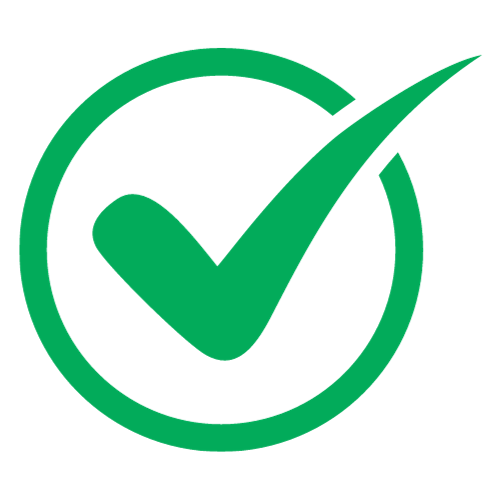
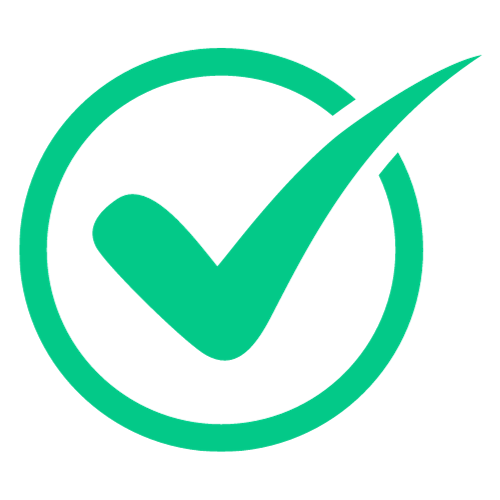
Reajust colors

Changed region(s): [[0.03, 0.09, 0.87, 0.93], [0.18, 0.09, 0.96, 0.72]]

diff --git a/todolist/style.css b/todolist/style.css
@@ -22,7 +22,7 @@ body
 .head-text h1
 {
     font-family: 'Paytone One', sans-serif;
-    font-size: 50px;
+    font-size: 35px;
     padding: 0;
 }
 
@@ -46,8 +46,8 @@ body
 
 .input-task button
 {
-    background-color: green;
-    border: 1px solid green;
+    background-color: #03C988;
+    border: 1px solid #03C988;
     padding: 15px;
     font-family: 'Kanit', sans-serif;
     width: 150px;
@@ -85,8 +85,8 @@ body
 
 .buttons .active
 {
-    background-color: green;
-    border: 1px solid green;
+    background-color: #03C988;
+    border: 1px solid #03C988;
 }
 
 .tasks-list
@@ -107,6 +107,16 @@ body
     margin: 0 5px;
 }
 
+.task input
+{
+    cursor: pointer;
+}
+
+.task input:hover
+{
+   border-color: #03C988;
+}
+
 .task p
 {
     padding: 15px;
@@ -119,8 +129,8 @@ body
 
 .trash-icon button
 {
-    background: red;
-    border: 1px solid red;
+    background: #D80032;
+    border: 1px solid #D80032;
     padding: 10px;
     margin: 8px;
     color: #fff;
